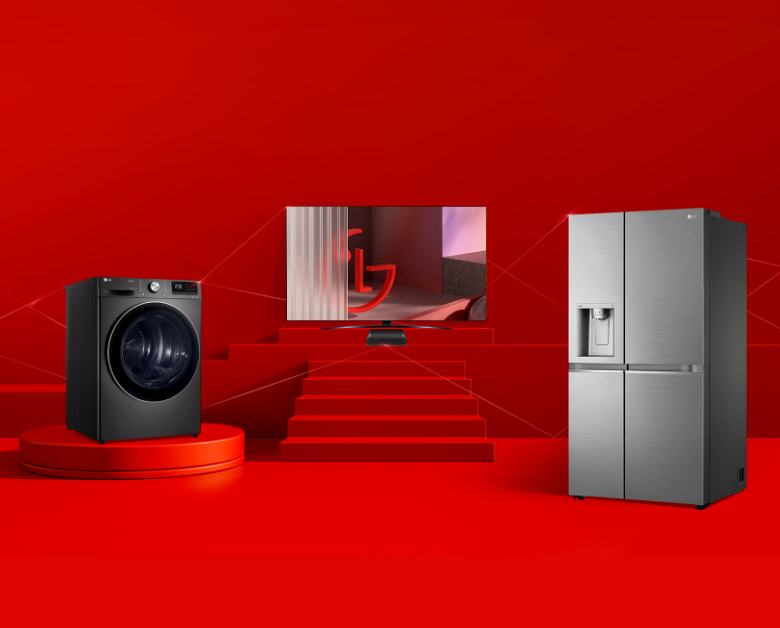
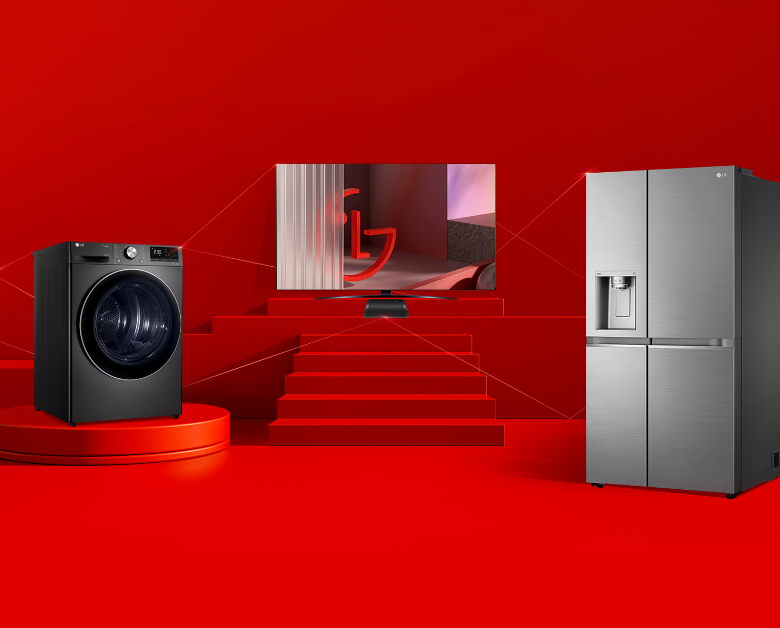
베트남 외 수정 중

Changed region(s): [[0.0, 0.242, 1.0, 0.8169]]

diff --git a/src/vn/index.html b/src/vn/index.html
@@ -18,7 +18,7 @@
 	<meta property="og:title" content="LG Member Days Promotion: Up to 15% Off Only For Members | LG UK">
 	<meta property="og:description" content="Become LG.com Member and get access to Member-exclusive offers, Prize-Winning Events, and more. LG Member Days benefits last ONLY UNTIL DD December 2022.">
 	<meta property="og:url" content="https://www.lg.com/uk/memberdays">
-	<meta property="og:image" content="https://www.lg.com/lg5-common-gp/images/common/share/share-default.jpg">
+	<meta property="og:image" content="/lg5-common-gp/images/common/share/share-default.jpg">
 	<meta name="twitter:card" content="summary_large_image">
 	<meta name="twitter:site" content="@LGUK">
 	<script type="application/ld+json">
@@ -28,7 +28,7 @@
 			"name": "LG UK",
 			"alternateName": "LG Electronics",
 			"url": "https://www.lg.com/uk/memberdays",
-			"logo": "https://www.lg.com/lg5-common-gp/images/common/header/logo-b2c.jpg",
+			"logo": "/lg5-common-gp/images/common/header/logo-b2c.jpg",
 			"sameAs": [
 				"https://www.facebook.com/LGUK",
 				"https://twitter.com/LGUK",
@@ -52,26 +52,26 @@
 	<meta content="#a50034" name="theme-color">
 
 	<meta content="#a50034" name="test-color">
-	<link href="https://www.lg.com/lg5-common-gp/bootstrap/4.1.3/css/bootstrap-grid.min.css" type="text/css" rel="stylesheet">
-	<link href="https://www.lg.com/lg5-common-gp/bootstrap/4.1.3/css/bootstrap.min.css" type="text/css" rel="stylesheet">
-	<link rel="preload" href="https://www.lg.com/lg5-common-gp/webfonts/LG_Smart_Regular.woff2" as="font" type="font/woff2" crossorigin>
-	<link rel="preload" href="https://www.lg.com/lg5-common-gp/webfonts/LG_Smart_Bold.woff2" as="font" type="font/woff2" crossorigin>
-	<link rel="preload" href="https://www.lg.com/lg5-common-gp/webfonts/LG_Smart_SemiBold.woff2" as="font" type="font/woff2" crossorigin>
-	<link href="https://www.lg.com/lg5-common-gp/css/default.min.css" type="text/css" rel="stylesheet">
-	<link href="https://www.lg.com/lg5-common-gp/css/components.min.css" type="text/css" rel="stylesheet">
+	<link href="/lg5-common-gp/bootstrap/4.1.3/css/bootstrap-grid.min.css" type="text/css" rel="stylesheet">
+	<link href="/lg5-common-gp/bootstrap/4.1.3/css/bootstrap.min.css" type="text/css" rel="stylesheet">
+	<link rel="preload" href="/lg5-common-gp/webfonts/LG_Smart_Regular.woff2" as="font" type="font/woff2" crossorigin>
+	<link rel="preload" href="/lg5-common-gp/webfonts/LG_Smart_Bold.woff2" as="font" type="font/woff2" crossorigin>
+	<link rel="preload" href="/lg5-common-gp/webfonts/LG_Smart_SemiBold.woff2" as="font" type="font/woff2" crossorigin>
+	<link href="/lg5-common-gp/css/default.min.css" type="text/css" rel="stylesheet">
+	<link href="/lg5-common-gp/css/components.min.css" type="text/css" rel="stylesheet">
 	<!--[if IE 9]>
-	<link href="https://www.lg.com/lg5-common-gp/css/default-for-ie9.min.css" type="text/css" rel="stylesheet">
+	<link href="/lg5-common-gp/css/default-for-ie9.min.css" type="text/css" rel="stylesheet">
 	<![endif]-->
-	<link href="https://www.lg.com/lg5-common-gp/css/GPC0150.min.css" type="text/css" rel="stylesheet">
-	<link href="https://www.lg.com/lg5-common-gp/css/GPC0101.min.css" type="text/css" rel="stylesheet">
-	<link href="https://www.lg.com/lg5-common-gp/css/GPC0003.min.css" type="text/css" rel="stylesheet">
-	<link href="https://www.lg.com/lg5-common-gp/css/GPC0059.min.css" type="text/css" rel="stylesheet">
-	<link href="https://www.lg.com/lg5-common-gp/css/GPC0064.min.css" type="text/css" rel="stylesheet">
-	<link href="https://www.lg.com/lg5-common-gp/css/GPC0065.min.css" type="text/css" rel="stylesheet">
-	<link href="https://www.lg.com/lg5-common-gp/css/GPC0022.min.css" type="text/css" rel="stylesheet">
-	<link href="https://www.lg.com/lg5-common-gp/css/GPC0055.min.css" type="text/css" rel="stylesheet">
-	<link href="https://www.lg.com/lg5-common-gp/css/GPC0045.min.css" type="text/css" rel="stylesheet">
-	<link href="https://www.lg.com/lg5-common-gp/css/GPC0078.min.css" type="text/css" rel="stylesheet">
+	<link href="/lg5-common-gp/css/GPC0150.min.css" type="text/css" rel="stylesheet">
+	<link href="/lg5-common-gp/css/GPC0101.min.css" type="text/css" rel="stylesheet">
+	<link href="/lg5-common-gp/css/GPC0003.min.css" type="text/css" rel="stylesheet">
+	<link href="/lg5-common-gp/css/GPC0059.min.css" type="text/css" rel="stylesheet">
+	<link href="/lg5-common-gp/css/GPC0064.min.css" type="text/css" rel="stylesheet">
+	<link href="/lg5-common-gp/css/GPC0065.min.css" type="text/css" rel="stylesheet">
+	<link href="/lg5-common-gp/css/GPC0022.min.css" type="text/css" rel="stylesheet">
+	<link href="/lg5-common-gp/css/GPC0055.min.css" type="text/css" rel="stylesheet">
+	<link href="/lg5-common-gp/css/GPC0045.min.css" type="text/css" rel="stylesheet">
+	<link href="/lg5-common-gp/css/GPC0078.min.css" type="text/css" rel="stylesheet">
 </head>
 
 <body>
@@ -2500,7 +2500,7 @@
 
 
 	</div>
-	<script src="https://www.lg.com/lg5-common-gp/library/jquery.min.js"></script>
+	<script src="/lg5-common-gp/library/jquery.min.js"></script>
 	<!-- <script>
 		var standardData = {};
 		standardData = {
@@ -2549,25 +2549,25 @@
 		id="bvScript"></div>
 	<div class="eprivacy-load-intercom" data-url="/uk/intercom/intercom.js"></div>
 	<!--[if IE 9]>
-	<script src="https://www.lg.com/lg5-common-gp/library/matchMedia.min.js"></script>
-	<script src="https://www.lg.com/lg5-common-gp/library/matchMedia.addListener.min.js"></script>
+	<script src="/lg5-common-gp/library/matchMedia.min.js"></script>
+	<script src="/lg5-common-gp/library/matchMedia.addListener.min.js"></script>
 	<![endif]-->
-	<script src="https://www.lg.com/lg5-common-gp/library/bootstrap.min.js"></script>
-	<script src="https://www.lg.com/lg5-common-gp/library/plugins.common.min.js"></script>
-	<script src="https://www.lg.com/lg5-common-gp/library/chosen.min.js"></script>
-	<script src="https://www.lg.com/lg5-common-gp/library/mCustomScrollbar.min.js"></script>
-	<script src="https://www.lg.com/lg5-common-gp/library/modal.min.js"></script>
-	<script src="https://www.lg.com/lg5-common-gp/library/panzoom.min.js"></script>
-	<script src="https://www.lg.com/lg5-common-gp/library/hammer.min.js"></script>
-	<script src="https://www.lg.com/lg5-common-gp/library/form-validation.min.js"></script>
-	<script src="https://www.lg.com/lg5-common-gp/library/jquery.event.move.min.js"></script>
-	<script src="https://www.lg.com/lg5-common-gp/library/jquery.twentytwenty.min.js"></script>
-	<script src="https://www.lg.com/lg5-common-gp/library/jquery.plugin.min.js"></script>
-	<script src="https://www.lg.com/lg5-common-gp/library/jquery.countdown.min.js"></script>
-	<script src="https://www.lg.com/lg5-common-gp/js/common.min.js"></script>
-	<script src="https://www.lg.com/lg5-common-gp/js/e-privacy.min.js"></script>
-	<script src="https://www.lg.com/lg5-common-gp/js/customer/add-to-cart.min.js"></script>
-	<script src="https://www.lg.com/lg5-common-gp/js/customer/wishlist.min.js"></script>
+	<script src="/lg5-common-gp/library/bootstrap.min.js"></script>
+	<script src="/lg5-common-gp/library/plugins.common.min.js"></script>
+	<script src="/lg5-common-gp/library/chosen.min.js"></script>
+	<script src="/lg5-common-gp/library/mCustomScrollbar.min.js"></script>
+	<script src="/lg5-common-gp/library/modal.min.js"></script>
+	<script src="/lg5-common-gp/library/panzoom.min.js"></script>
+	<script src="/lg5-common-gp/library/hammer.min.js"></script>
+	<script src="/lg5-common-gp/library/form-validation.min.js"></script>
+	<script src="/lg5-common-gp/library/jquery.event.move.min.js"></script>
+	<script src="/lg5-common-gp/library/jquery.twentytwenty.min.js"></script>
+	<script src="/lg5-common-gp/library/jquery.plugin.min.js"></script>
+	<script src="/lg5-common-gp/library/jquery.countdown.min.js"></script>
+	<script src="/lg5-common-gp/js/common.min.js"></script>
+	<script src="/lg5-common-gp/js/e-privacy.min.js"></script>
+	<script src="/lg5-common-gp/js/customer/add-to-cart.min.js"></script>
+	<script src="/lg5-common-gp/js/customer/wishlist.min.js"></script>
 	<!-- UI Script -->
 	<script src="../assets/js/index.js"></script>
 	<script src="../assets/js/index-ajax.js"></script>

diff --git a/dist/assets/index.js b/dist/assets/index.js
@@ -177,6 +177,22 @@ $(document).ready(function () {
   });
   // $('.brandtabs-container .tabs-menu a:first').trigger('click');
 
+  // visual text rolling
+  $(".lgmembersweek .visual .visual__rolling").slick({
+    speed: 900,
+    infinite: true,
+    autoplay: true,
+    autoplaySpeed: 2600,
+    slidesToShow: 1,
+    slidesToScroll: 1,
+    vertical: true,
+    pauseOnHover: false,
+    arrows: false,
+  });
+  $(window).resize(function () {
+    $(".lgmembersweek .visual .visual__rolling").slick("refresh", "true");
+  });
+
   // Deal Custom carousel nav
   $(".hotdeal .carousel-prev").click(function (e) {
     e.preventDefault();

diff --git a/src/assets/js/index.js b/src/assets/js/index.js
@@ -129,18 +129,18 @@ $(document).ready(function () {
 
   // visual text rolling
   $(".lgmembersweek .visual .visual__rolling").slick({
-    speed: 600,
+    speed: 900,
     infinite: true,
     autoplay: true,
-    autoplaySpeed: 1000,
+    autoplaySpeed: 2600,
     slidesToShow: 1,
     slidesToScroll: 1,
     vertical: true,
     pauseOnHover: false,
     arrows: false,
   });
-  $(window).resize(function() {
-    $(".lgmembersweek .visual .visual__rolling").slick('refresh', 'true');
+  $(window).resize(function () {
+    $(".lgmembersweek .visual .visual__rolling").slick("refresh", "true");
   });
 
   // slick

diff --git a/src/assets/css/index.scss b/src/assets/css/index.scss
@@ -31,13 +31,13 @@
 
 	.visual {
 		margin-top: -52px;
-		background-color: #D60000;
+		background-color: #E10000;
 		color: #fff;
 		padding-bottom: 815px;
 
 		&__visual {
 			padding: 172px 0 40px;
-			background: url('../images/bg_visual.png') no-repeat 50% 50%;
+			background: url('../images/bg_visual.png') no-repeat 50% 85%;
 			background-size: cover;
 
 			.button {

diff --git a/src/assets/css/index_vn.scss b/src/assets/css/index_vn.scss
@@ -97,5 +97,20 @@
 			}
 		}
 	}
+	.product {
 
+		&__price {
+
+			div {
+				display: flex;
+				flex-direction: column;
+			}
+		}
+
+		&__info {
+			.unit {
+				margin-left: -5px;
+			}
+		}
+	}
 }
